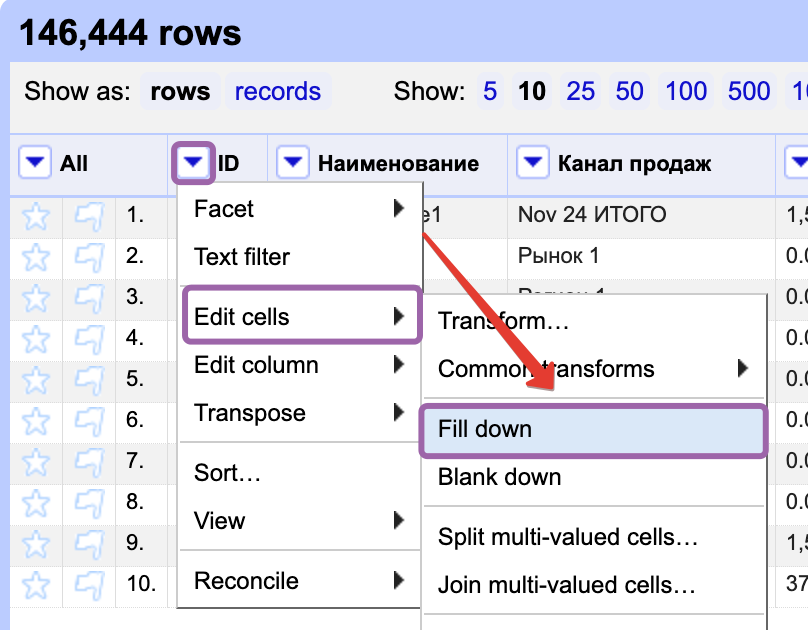
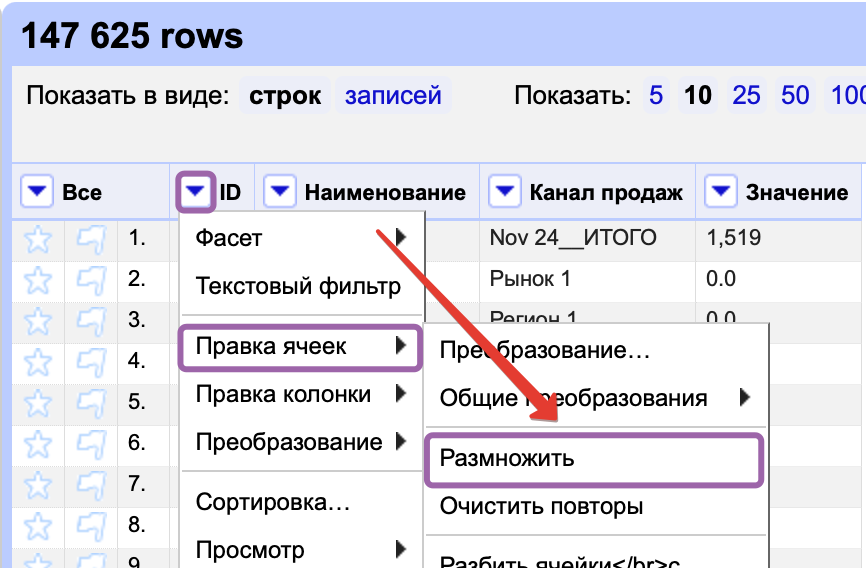
fix(excel_import): russian language

diff --git a/README.md b/README.md
@@ -74,7 +74,7 @@ curl -L -o "План продаж.xlsx" \
 ### Преобразовываем транспонированную таблицу
 
 
-- Выбираем по очереди колонки "ID", "Наименование" и протягиваем (Edit cells > Fill down)
+- Выбираем по очереди колонки "ID", "Наименование" и протягиваем (Правка ячеек > Размножить)
 
 ![img](img/id_fill_down.png)
 
